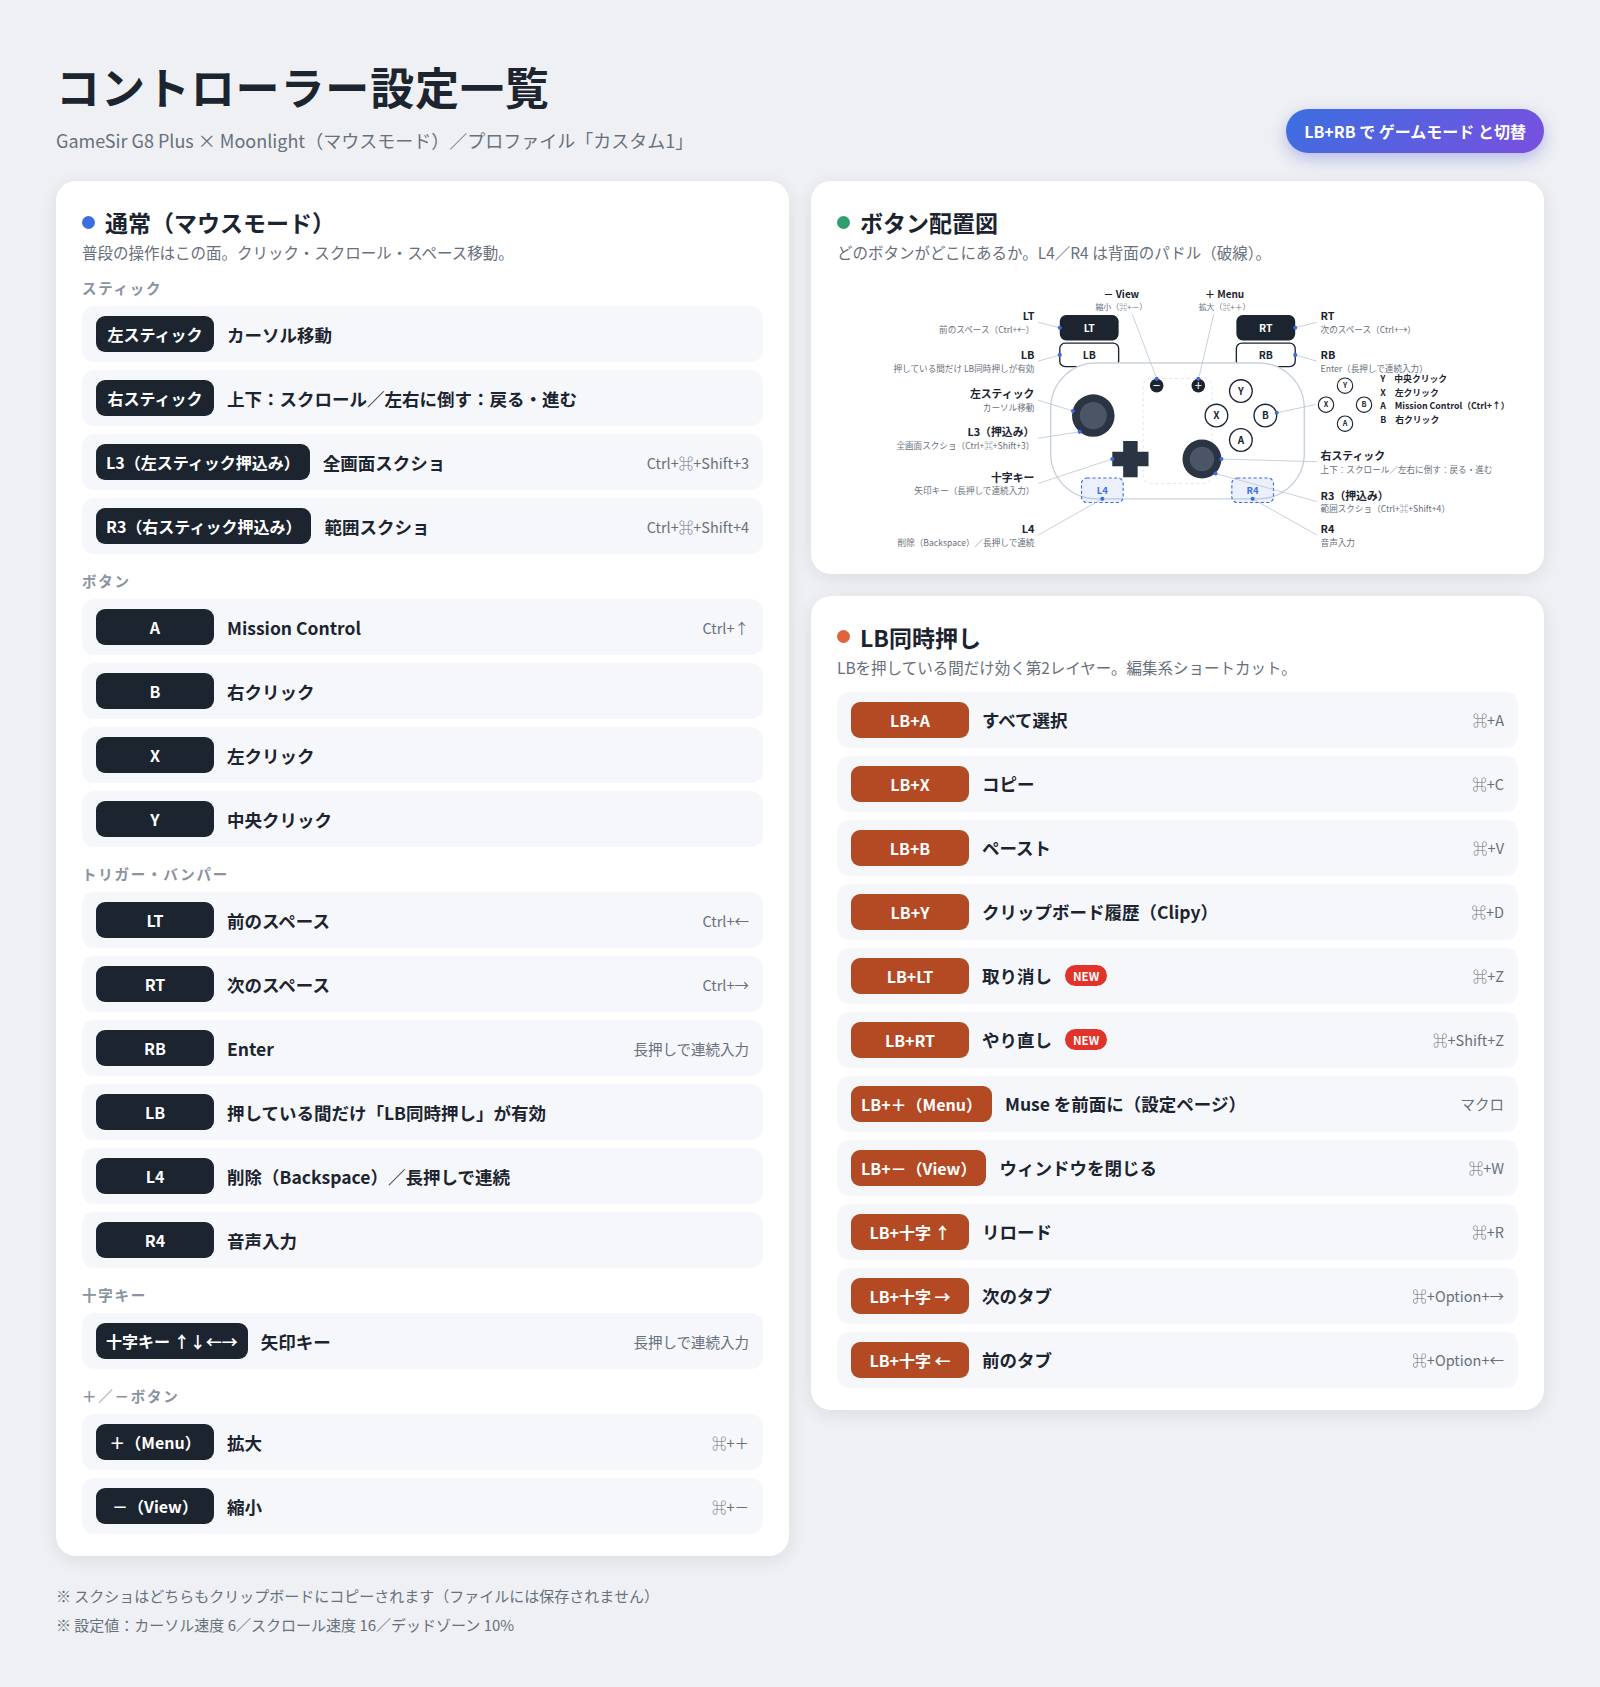
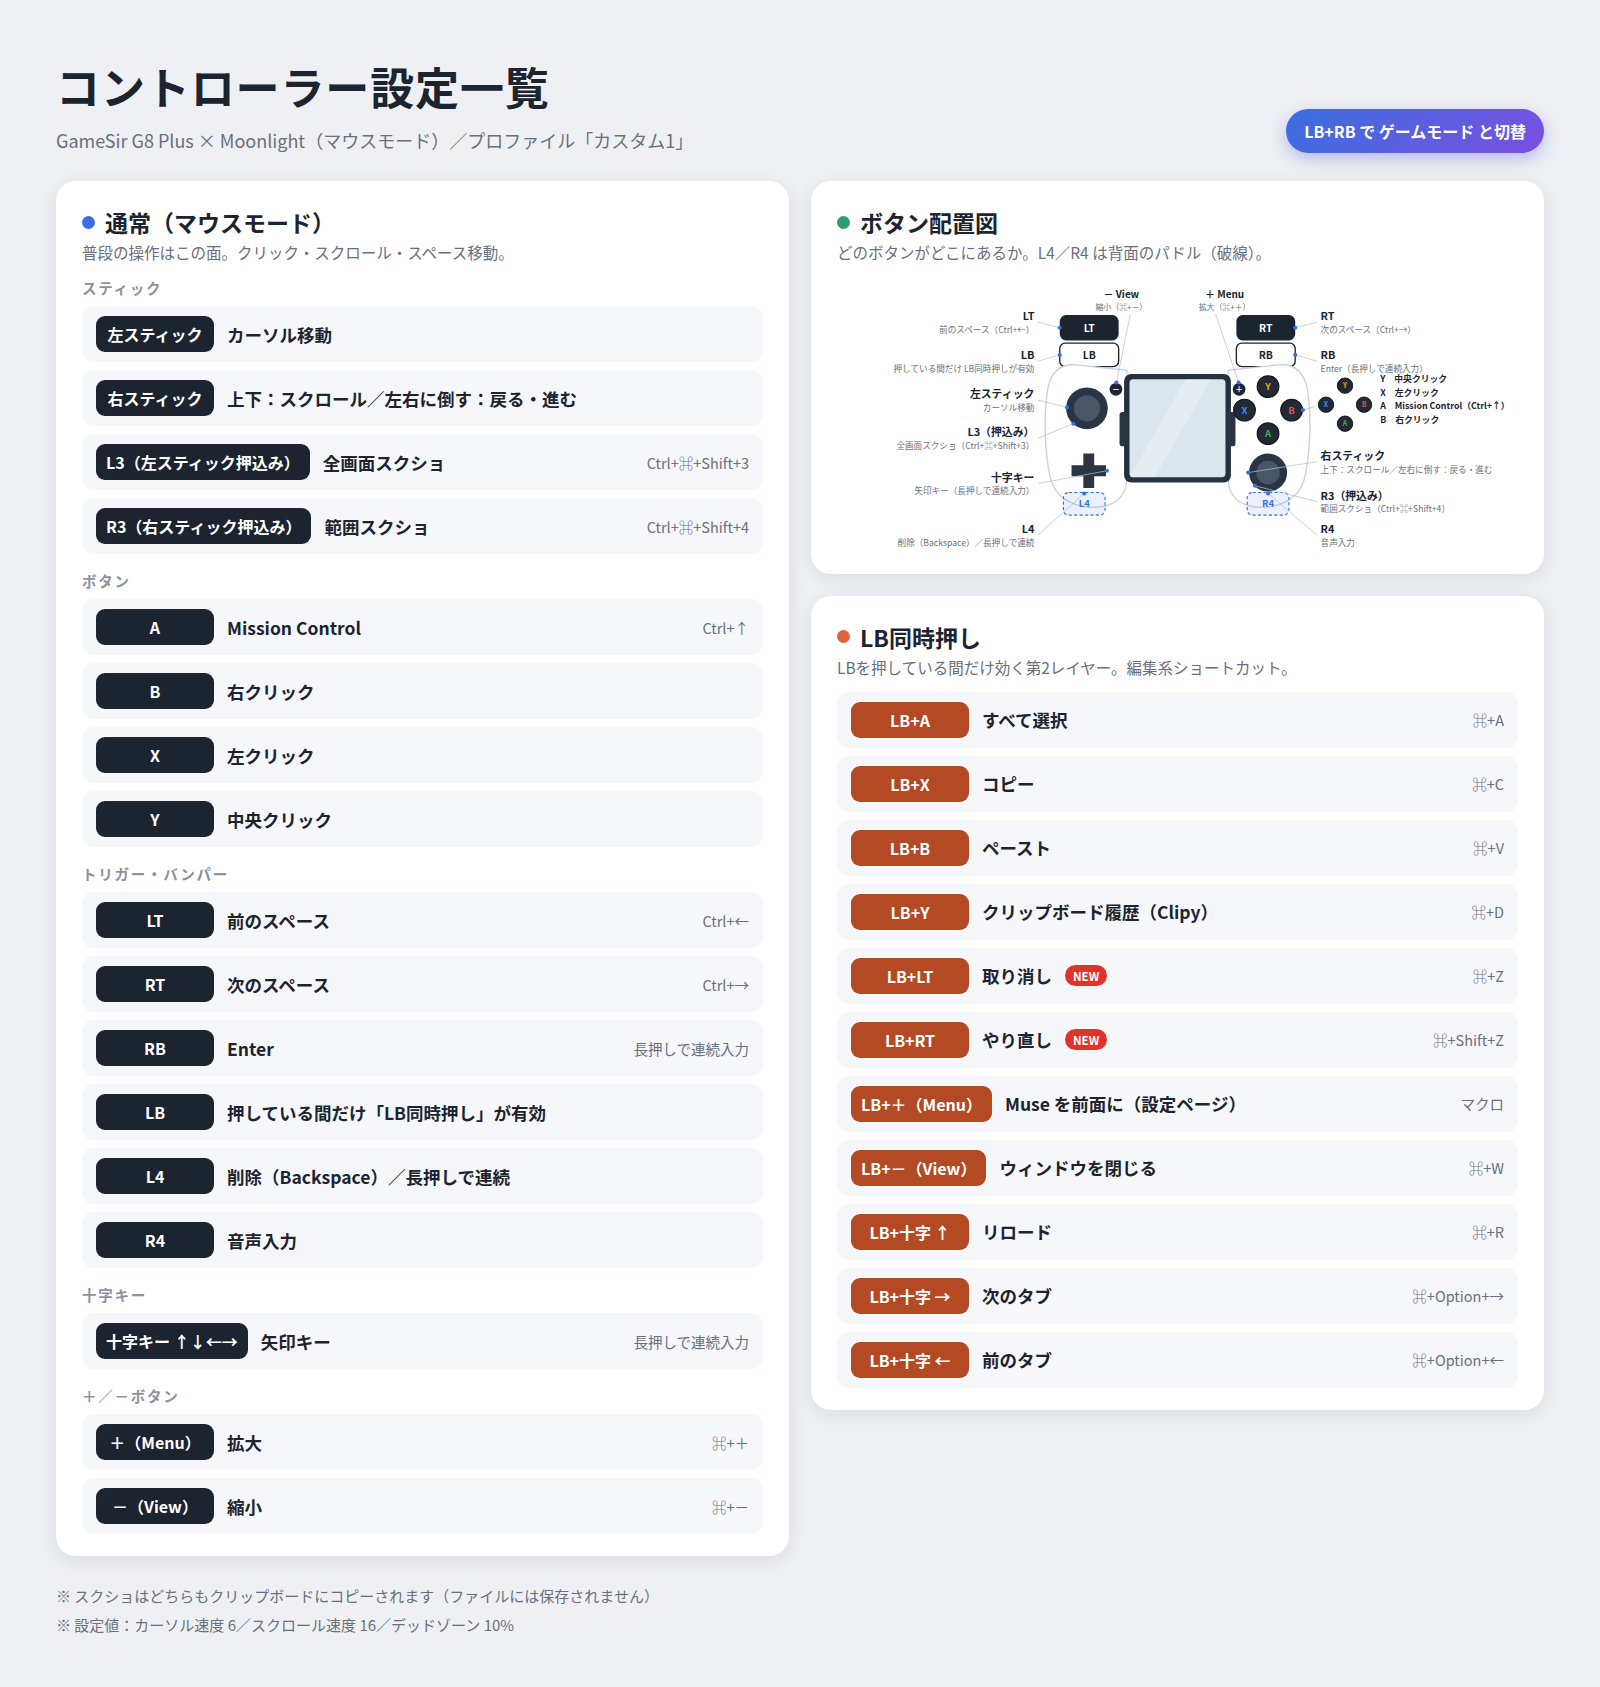
controller-map: 配置図をGameSir G8 Plus実物シルエットに描き直し（伸縮式・中央端末・ABXY実物化）

Changed region(s): [[0.6562, 0.2158, 0.8438, 0.3082]]

diff --git a/controller-map/v3.html b/controller-map/v3.html
@@ -51,7 +51,7 @@ footer { margin-top: 4px; font-size: 15px; color: #68707c; line-height: 1.9; }
     <div class="card diagram">
       <h2><span class="dot"></span>ボタン配置図</h2>
       <p class="lead">どのボタンがどこにあるか。L4／R4 は背面のパドル（破線）。</p>
-      <svg viewBox="0 0 1504 624"><rect x="492" y="84" width="130" height="56" rx="14" fill="#1c2430"/><text x="557" y="122" text-anchor="middle" font-size="23" font-weight="700" fill="#fff">LT</text><rect x="882" y="84" width="130" height="56" rx="14" fill="#1c2430"/><text x="947" y="122" text-anchor="middle" font-size="23" font-weight="700" fill="#fff">RT</text><rect x="492" y="146" width="130" height="52" rx="12" fill="#fff" stroke="#1c2430" stroke-width="3"/><text x="557" y="181" text-anchor="middle" font-size="23" font-weight="700" fill="#1c2430">LB</text><rect x="882" y="146" width="130" height="52" rx="12" fill="#fff" stroke="#1c2430" stroke-width="3"/><text x="947" y="181" text-anchor="middle" font-size="23" font-weight="700" fill="#1c2430">RB</text><rect x="472" y="190" width="560" height="300" rx="100" fill="#ffffff" stroke="#c9d2dd" stroke-width="3"/><rect x="676" y="224" width="152" height="232" rx="18" fill="none" stroke="#dde3ea" stroke-width="2" stroke-dasharray="7 6"/><circle cx="706" cy="240" r="15" fill="#1c2430"/><text x="706" y="248" text-anchor="middle" font-size="19" font-weight="700" fill="#fff">－</text><circle cx="798" cy="240" r="15" fill="#1c2430"/><text x="798" y="248" text-anchor="middle" font-size="19" font-weight="700" fill="#fff">＋</text><circle cx="566" cy="306" r="47" fill="#2a3442"/><circle cx="566" cy="306" r="30" fill="#4a5568"/><path d="M632 362 h32 v24 h24 v32 h-24 v24 h-32 v-24 h-24 v-32 h24 z" fill="#2a3442"/><circle cx="806" cy="402" r="43" fill="#2a3442"/><circle cx="806" cy="402" r="27" fill="#4a5568"/><circle cx="892" cy="252" r="25" fill="#fff" stroke="#1c2430" stroke-width="3"/><text x="892" y="260" text-anchor="middle" font-size="22" font-weight="700" fill="#1c2430">Y</text><circle cx="838" cy="306" r="25" fill="#fff" stroke="#1c2430" stroke-width="3"/><text x="838" y="314" text-anchor="middle" font-size="22" font-weight="700" fill="#1c2430">X</text><circle cx="946" cy="306" r="25" fill="#fff" stroke="#1c2430" stroke-width="3"/><text x="946" y="314" text-anchor="middle" font-size="22" font-weight="700" fill="#1c2430">B</text><circle cx="892" cy="360" r="25" fill="#fff" stroke="#1c2430" stroke-width="3"/><text x="892" y="368" text-anchor="middle" font-size="22" font-weight="700" fill="#1c2430">A</text><rect x="540" y="444" width="92" height="54" rx="12" fill="rgba(59,111,224,.10)" stroke="#3b6fe0" stroke-width="2.5" stroke-dasharray="7 5"/><text x="586" y="479" text-anchor="middle" font-size="21" font-weight="700" fill="#3b6fe0">L4</text><rect x="872" y="444" width="92" height="54" rx="12" fill="rgba(59,111,224,.10)" stroke="#3b6fe0" stroke-width="2.5" stroke-dasharray="7 5"/><text x="918" y="479" text-anchor="middle" font-size="21" font-weight="700" fill="#3b6fe0">R4</text><text x="628" y="46" text-anchor="middle" font-size="22" font-weight="700" fill="#1c2430">－ View</text><text x="628" y="72" text-anchor="middle" font-size="17.5" fill="#68707c">縮小（⌘+－）</text><line x1="652" y1="82" x2="704" y2="219" stroke="#b6bfca" stroke-width="1.6"/><circle cx="706" cy="225" r="4.5" fill="#3b6fe0"/><text x="856" y="46" text-anchor="middle" font-size="22" font-weight="700" fill="#1c2430">＋ Menu</text><text x="856" y="72" text-anchor="middle" font-size="17.5" fill="#68707c">拡大（⌘+＋）</text><line x1="832" y1="82" x2="800" y2="219" stroke="#b6bfca" stroke-width="1.6"/><circle cx="798" cy="225" r="4.5" fill="#3b6fe0"/><text x="436" y="96" text-anchor="end" font-size="24" font-weight="700" fill="#1c2430">LT</text><text x="436" y="124" text-anchor="end" font-size="19" fill="#68707c">前のスペース（Ctrl+←）</text><line x1="444" y1="100" x2="492" y2="112" stroke="#b6bfca" stroke-width="1.6"/><circle cx="492" cy="112" r="4.5" fill="#3b6fe0"/><text x="436" y="182" text-anchor="end" font-size="24" font-weight="700" fill="#1c2430">LB</text><text x="436" y="210" text-anchor="end" font-size="19" fill="#68707c">押している間だけ LB同時押しが有効</text><line x1="444" y1="186" x2="492" y2="172" stroke="#b6bfca" stroke-width="1.6"/><circle cx="492" cy="172" r="4.5" fill="#3b6fe0"/><text x="436" y="268" text-anchor="end" font-size="24" font-weight="700" fill="#1c2430">左スティック</text><text x="436" y="296" text-anchor="end" font-size="19" fill="#68707c">カーソル移動</text><line x1="444" y1="272" x2="521" y2="296" stroke="#b6bfca" stroke-width="1.6"/><circle cx="521" cy="296" r="4.5" fill="#3b6fe0"/><text x="436" y="352" text-anchor="end" font-size="24" font-weight="700" fill="#1c2430">L3（押込み）</text><text x="436" y="380" text-anchor="end" font-size="19" fill="#68707c">全画面スクショ（Ctrl+⌘+Shift+3）</text><line x1="444" y1="356" x2="536" y2="342" stroke="#b6bfca" stroke-width="1.6"/><circle cx="536" cy="342" r="4.5" fill="#3b6fe0"/><text x="436" y="452" text-anchor="end" font-size="24" font-weight="700" fill="#1c2430">十字キー</text><text x="436" y="480" text-anchor="end" font-size="19" fill="#68707c">矢印キー（長押しで連続入力）</text><line x1="444" y1="456" x2="608" y2="402" stroke="#b6bfca" stroke-width="1.6"/><circle cx="608" cy="402" r="4.5" fill="#3b6fe0"/><text x="1068" y="96" font-size="24" font-weight="700" fill="#1c2430">RT</text><text x="1068" y="124" font-size="19" fill="#68707c">次のスペース（Ctrl+→）</text><line x1="1012" y1="112" x2="1060" y2="100" stroke="#b6bfca" stroke-width="1.6"/><circle cx="1012" cy="112" r="4.5" fill="#3b6fe0"/><text x="1068" y="182" font-size="24" font-weight="700" fill="#1c2430">RB</text><text x="1068" y="210" font-size="19" fill="#68707c">Enter（長押しで連続入力）</text><line x1="1012" y1="172" x2="1060" y2="186" stroke="#b6bfca" stroke-width="1.6"/><circle cx="1012" cy="172" r="4.5" fill="#3b6fe0"/><line x1="971" y1="300" x2="1056" y2="282" stroke="#b6bfca" stroke-width="1.6"/><circle cx="971" cy="300" r="4.5" fill="#3b6fe0"/><circle cx="1122" cy="240" r="17" fill="#fff" stroke="#1c2430" stroke-width="2.5"/><text x="1122" y="246" text-anchor="middle" font-size="16" font-weight="700" fill="#1c2430">Y</text><circle cx="1080" cy="282" r="17" fill="#fff" stroke="#1c2430" stroke-width="2.5"/><text x="1080" y="288" text-anchor="middle" font-size="16" font-weight="700" fill="#1c2430">X</text><circle cx="1164" cy="282" r="17" fill="#fff" stroke="#1c2430" stroke-width="2.5"/><text x="1164" y="288" text-anchor="middle" font-size="16" font-weight="700" fill="#1c2430">B</text><circle cx="1122" cy="324" r="17" fill="#fff" stroke="#1c2430" stroke-width="2.5"/><text x="1122" y="330" text-anchor="middle" font-size="16" font-weight="700" fill="#1c2430">A</text><text x="1200" y="232" font-size="19.5" font-weight="700" fill="#1c2430">Y　中央クリック</text><text x="1200" y="262" font-size="19.5" font-weight="700" fill="#1c2430">X　左クリック</text><text x="1200" y="292" font-size="19.5" font-weight="700" fill="#1c2430">A　Mission Control（Ctrl+↑）</text><text x="1200" y="322" font-size="19.5" font-weight="700" fill="#1c2430">B　右クリック</text><text x="1068" y="404" font-size="24" font-weight="700" fill="#1c2430">右スティック</text><text x="1068" y="432" font-size="19" fill="#68707c">上下：スクロール／左右に倒す：戻る・進む</text><line x1="849" y1="402" x2="1060" y2="408" stroke="#b6bfca" stroke-width="1.6"/><circle cx="849" cy="402" r="4.5" fill="#3b6fe0"/><text x="1068" y="492" font-size="24" font-weight="700" fill="#1c2430">R3（押込み）</text><text x="1068" y="520" font-size="19" fill="#68707c">範囲スクショ（Ctrl+⌘+Shift+4）</text><line x1="836" y1="434" x2="1060" y2="496" stroke="#b6bfca" stroke-width="1.6"/><circle cx="836" cy="434" r="4.5" fill="#3b6fe0"/><text x="436" y="566" text-anchor="end" font-size="24" font-weight="700" fill="#1c2430">L4</text><text x="436" y="594" text-anchor="end" font-size="19" fill="#68707c">削除（Backspace）／長押しで連続</text><line x1="444" y1="570" x2="586" y2="490" stroke="#b6bfca" stroke-width="1.6"/><circle cx="586" cy="490" r="4.5" fill="#3b6fe0"/><text x="1068" y="566" font-size="24" font-weight="700" fill="#1c2430">R4</text><text x="1068" y="594" font-size="19" fill="#68707c">音声入力</text><line x1="918" y1="490" x2="1060" y2="570" stroke="#b6bfca" stroke-width="1.6"/><circle cx="918" cy="490" r="4.5" fill="#3b6fe0"/></svg>
+      <svg viewBox="0 0 1504 624"><rect x="492" y="84" width="130" height="56" rx="14" fill="#1c2430"/><text x="557" y="122" text-anchor="middle" font-size="23" font-weight="700" fill="#fff">LT</text><rect x="882" y="84" width="130" height="56" rx="14" fill="#1c2430"/><text x="947" y="122" text-anchor="middle" font-size="23" font-weight="700" fill="#fff">RT</text><rect x="492" y="146" width="130" height="52" rx="12" fill="#fff" stroke="#1c2430" stroke-width="3"/><text x="557" y="181" text-anchor="middle" font-size="23" font-weight="700" fill="#1c2430">LB</text><rect x="882" y="146" width="130" height="52" rx="12" fill="#fff" stroke="#1c2430" stroke-width="3"/><text x="947" y="181" text-anchor="middle" font-size="23" font-weight="700" fill="#1c2430">RB</text><path d="M640 206 L528 194 Q478 190 466 244 C456 300 458 380 470 438 Q480 492 540 506 C580 514 622 506 636 470 C646 440 646 380 644 320 L640 206 Z" fill="#ffffff" stroke="#c9d2dd" stroke-width="3"/><path d="M864 206 L976 194 Q1026 190 1038 244 C1048 300 1046 380 1034 438 Q1024 492 964 506 C924 514 882 506 868 470 C858 440 858 380 860 320 L864 206 Z" fill="#ffffff" stroke="#c9d2dd" stroke-width="3"/><rect x="634" y="214" width="236" height="240" rx="16" fill="#26313f"/><rect x="646" y="226" width="212" height="216" rx="8" fill="#dbe5ee"/><path d="M646 442 L770 226 L826 226 L702 442 Z" fill="#ffffff" opacity=".28"/><rect x="624" y="298" width="18" height="76" rx="7" fill="#2a3442"/><rect x="862" y="298" width="18" height="76" rx="7" fill="#2a3442"/><circle cx="616" cy="248" r="14" fill="#1c2430"/><text x="616" y="255" text-anchor="middle" font-size="17" font-weight="700" fill="#fff">－</text><circle cx="888" cy="248" r="14" fill="#1c2430"/><text x="888" y="255" text-anchor="middle" font-size="17" font-weight="700" fill="#fff">＋</text><circle cx="552" cy="290" r="46" fill="#2a3442"/><circle cx="552" cy="290" r="29" fill="#4a5568"/><path d="M544 390 h24 v26 h26 v24 h-26 v26 h-24 v-26 h-26 v-24 h26 z" fill="#2a3442"/><circle cx="952" cy="432" r="42" fill="#2a3442"/><circle cx="952" cy="432" r="26" fill="#4a5568"/><circle cx="952" cy="242" r="24" fill="#232a35" stroke="#10151c" stroke-width="2.5"/><text x="952" y="250" text-anchor="middle" font-size="21" font-weight="700" fill="#e8a90c">Y</text><circle cx="900" cy="294" r="24" fill="#232a35" stroke="#10151c" stroke-width="2.5"/><text x="900" y="302" text-anchor="middle" font-size="21" font-weight="700" fill="#3d8bfd">X</text><circle cx="1004" cy="294" r="24" fill="#232a35" stroke="#10151c" stroke-width="2.5"/><text x="1004" y="302" text-anchor="middle" font-size="21" font-weight="700" fill="#e0524d">B</text><circle cx="952" cy="346" r="24" fill="#232a35" stroke="#10151c" stroke-width="2.5"/><text x="952" y="354" text-anchor="middle" font-size="21" font-weight="700" fill="#4caf50">A</text><rect x="500" y="476" width="92" height="50" rx="12" fill="rgba(59,111,224,.10)" stroke="#3b6fe0" stroke-width="2.5" stroke-dasharray="7 5"/><text x="546" y="509" text-anchor="middle" font-size="21" font-weight="700" fill="#3b6fe0">L4</text><rect x="906" y="476" width="92" height="50" rx="12" fill="rgba(59,111,224,.10)" stroke="#3b6fe0" stroke-width="2.5" stroke-dasharray="7 5"/><text x="952" y="509" text-anchor="middle" font-size="21" font-weight="700" fill="#3b6fe0">R4</text><text x="628" y="46" text-anchor="middle" font-size="22" font-weight="700" fill="#1c2430">－ View</text><text x="628" y="72" text-anchor="middle" font-size="17.5" fill="#68707c">縮小（⌘+－）</text><line x1="648" y1="82" x2="617" y2="233" stroke="#b6bfca" stroke-width="1.6"/><circle cx="617" cy="233" r="4.5" fill="#3b6fe0"/><text x="856" y="46" text-anchor="middle" font-size="22" font-weight="700" fill="#1c2430">＋ Menu</text><text x="856" y="72" text-anchor="middle" font-size="17.5" fill="#68707c">拡大（⌘+＋）</text><line x1="836" y1="82" x2="887" y2="233" stroke="#b6bfca" stroke-width="1.6"/><circle cx="887" cy="233" r="4.5" fill="#3b6fe0"/><text x="436" y="96" text-anchor="end" font-size="24" font-weight="700" fill="#1c2430">LT</text><text x="436" y="124" text-anchor="end" font-size="19" fill="#68707c">前のスペース（Ctrl+←）</text><line x1="444" y1="100" x2="492" y2="112" stroke="#b6bfca" stroke-width="1.6"/><circle cx="492" cy="112" r="4.5" fill="#3b6fe0"/><text x="436" y="182" text-anchor="end" font-size="24" font-weight="700" fill="#1c2430">LB</text><text x="436" y="210" text-anchor="end" font-size="19" fill="#68707c">押している間だけ LB同時押しが有効</text><line x1="444" y1="186" x2="492" y2="172" stroke="#b6bfca" stroke-width="1.6"/><circle cx="492" cy="172" r="4.5" fill="#3b6fe0"/><text x="436" y="268" text-anchor="end" font-size="24" font-weight="700" fill="#1c2430">左スティック</text><text x="436" y="296" text-anchor="end" font-size="19" fill="#68707c">カーソル移動</text><line x1="444" y1="272" x2="508" y2="288" stroke="#b6bfca" stroke-width="1.6"/><circle cx="508" cy="288" r="4.5" fill="#3b6fe0"/><text x="436" y="352" text-anchor="end" font-size="24" font-weight="700" fill="#1c2430">L3（押込み）</text><text x="436" y="380" text-anchor="end" font-size="19" fill="#68707c">全画面スクショ（Ctrl+⌘+Shift+3）</text><line x1="444" y1="356" x2="522" y2="324" stroke="#b6bfca" stroke-width="1.6"/><circle cx="522" cy="324" r="4.5" fill="#3b6fe0"/><text x="436" y="452" text-anchor="end" font-size="24" font-weight="700" fill="#1c2430">十字キー</text><text x="436" y="480" text-anchor="end" font-size="19" fill="#68707c">矢印キー（長押しで連続入力）</text><line x1="444" y1="456" x2="596" y2="428" stroke="#b6bfca" stroke-width="1.6"/><circle cx="596" cy="428" r="4.5" fill="#3b6fe0"/><text x="1068" y="96" font-size="24" font-weight="700" fill="#1c2430">RT</text><text x="1068" y="124" font-size="19" fill="#68707c">次のスペース（Ctrl+→）</text><line x1="1012" y1="112" x2="1060" y2="100" stroke="#b6bfca" stroke-width="1.6"/><circle cx="1012" cy="112" r="4.5" fill="#3b6fe0"/><text x="1068" y="182" font-size="24" font-weight="700" fill="#1c2430">RB</text><text x="1068" y="210" font-size="19" fill="#68707c">Enter（長押しで連続入力）</text><line x1="1012" y1="172" x2="1060" y2="186" stroke="#b6bfca" stroke-width="1.6"/><circle cx="1012" cy="172" r="4.5" fill="#3b6fe0"/><line x1="1029" y1="294" x2="1056" y2="286" stroke="#b6bfca" stroke-width="1.6"/><circle cx="1029" cy="294" r="4.5" fill="#3b6fe0"/><circle cx="1122" cy="240" r="17" fill="#232a35" stroke="#10151c" stroke-width="2"/><text x="1122" y="246" text-anchor="middle" font-size="15" font-weight="700" fill="#e8a90c">Y</text><circle cx="1080" cy="282" r="17" fill="#232a35" stroke="#10151c" stroke-width="2"/><text x="1080" y="288" text-anchor="middle" font-size="15" font-weight="700" fill="#3d8bfd">X</text><circle cx="1164" cy="282" r="17" fill="#232a35" stroke="#10151c" stroke-width="2"/><text x="1164" y="288" text-anchor="middle" font-size="15" font-weight="700" fill="#e0524d">B</text><circle cx="1122" cy="324" r="17" fill="#232a35" stroke="#10151c" stroke-width="2"/><text x="1122" y="330" text-anchor="middle" font-size="15" font-weight="700" fill="#4caf50">A</text><text x="1200" y="232" font-size="19.5" font-weight="700" fill="#1c2430">Y　中央クリック</text><text x="1200" y="262" font-size="19.5" font-weight="700" fill="#1c2430">X　左クリック</text><text x="1200" y="292" font-size="19.5" font-weight="700" fill="#1c2430">A　Mission Control（Ctrl+↑）</text><text x="1200" y="322" font-size="19.5" font-weight="700" fill="#1c2430">B　右クリック</text><text x="1068" y="404" font-size="24" font-weight="700" fill="#1c2430">右スティック</text><text x="1068" y="432" font-size="19" fill="#68707c">上下：スクロール／左右に倒す：戻る・進む</text><line x1="908" y1="432" x2="1060" y2="408" stroke="#b6bfca" stroke-width="1.6"/><circle cx="908" cy="432" r="4.5" fill="#3b6fe0"/><text x="1068" y="492" font-size="24" font-weight="700" fill="#1c2430">R3（押込み）</text><text x="1068" y="520" font-size="19" fill="#68707c">範囲スクショ（Ctrl+⌘+Shift+4）</text><line x1="923" y1="461" x2="1060" y2="496" stroke="#b6bfca" stroke-width="1.6"/><circle cx="923" cy="461" r="4.5" fill="#3b6fe0"/><text x="436" y="566" text-anchor="end" font-size="24" font-weight="700" fill="#1c2430">L4</text><text x="436" y="594" text-anchor="end" font-size="19" fill="#68707c">削除（Backspace）／長押しで連続</text><line x1="444" y1="570" x2="546" y2="478" stroke="#b6bfca" stroke-width="1.6"/><circle cx="546" cy="478" r="4.5" fill="#3b6fe0"/><text x="1068" y="566" font-size="24" font-weight="700" fill="#1c2430">R4</text><text x="1068" y="594" font-size="19" fill="#68707c">音声入力</text><line x1="952" y1="478" x2="1060" y2="570" stroke="#b6bfca" stroke-width="1.6"/><circle cx="952" cy="478" r="4.5" fill="#3b6fe0"/></svg>
     </div>
     <div class="card lb">
       <h2><span class="dot"></span>LB同時押し</h2>
